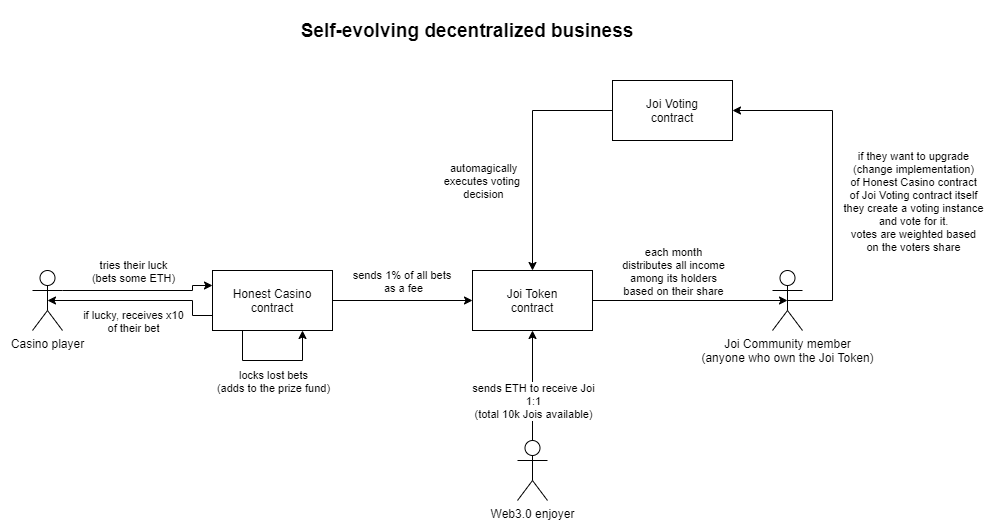
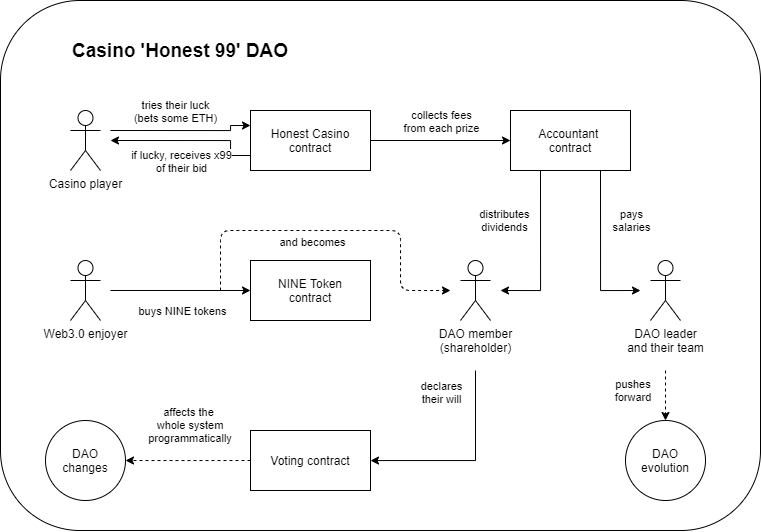
update readme and big picture

diff --git a/README.md b/README.md
@@ -1,6 +1,3 @@
-_This repository should always belong to CEO or CTO of Honest Casino, previous owner should archive their copy immediately after an election_
-
-## Honest Casino
 The online casino owned by its community
 
 ##### The big picture
@@ -8,72 +5,43 @@ The online casino owned by its community
 
 #### Contracts
 
-##### Joi Token
+##### NINE Token
 
-The hearth of the Honest Casino DAO is `JoiToken` contract which is based on a custom version of `ERC777` - 
-`ERC777WithHistory`. This contract provides us with a unique feature - it stores a history of balances of
-its accounts. This enables other contracts to verify the possession of some amount of tokens by any account
-at any specific moment in the past. 
+The hearth of Casino 'Honest 99' DAO is `NineToken` contract which is based on a custom version of `ERC20` - 
+`ERC20WithHistory`. This contract provides us with the unique feature - it is aware of history of balances of
+its accounts. This enables other contracts to verify the possession of tokens by any account
+at any specific moment in the past.
 
-> this is achieved by saving history snapshots using ERC777 `_beforeTokenTransfer` hook
+> this is achieved by saving history snapshots using ERC20 `_beforeTokenTransfer` hook
 
-This feature is fundamental for the entire contract system, because it enables us to implement cheap (in terms
+This feature is fundamental for the entire contract system, because it enables us to securely implement cheap (in terms
 of gas) dividends distribution system and cheap voting system both based on amounts of capital possessed by the 
 account. 
 
-`JoiToken` contract uses balance history feature to implement monthly dividend distribution sessions. Shareholders
-(Joi Community members) are calling its `requestPayout()` method and receive ETH (if there is at least 1 ETH to distribute)
+##### Accountant
+
+`Accountant` contract uses balance history feature to implement dividend distribution sessions. Shareholders
+(DAO members) are calling its `receiveDividends()` method and receive ETH (fees collected from the casino)
 based on their share at the moment of the beginning of the distribution session.
 
 > For example: 
 >
-> You had `100 Jois` at the 1st of January and didn't move your Jois after that, this month `500 ETH fees` 
-> was collected from the casino and monthly dividend distribution session started today - 2nd of January 
-> => your dividends would amount `500 / 10_000 * 100 = 5 ETH`.
+> You had `100 Nines` at the 1st of January. During December `500 ETH fees` were collected from the casino.
+> Your dividends would amount `500 / 10_000 * 100 = 5 ETH`.
 
-You don't need to lock your funds or anything else - the contract knows how much did you have when payout period started.
+You don't need to lock your NINE tokens or commit any explicit proofs - the contract knows for sure how much shares you 
+had for current dividend distribution session.
 
 ##### Honest Casino
 
-This contract is very simple. It only has one method to call - `guess()`. It accepts the bet and calculates a random 
-number to compare with the callers one. %1 fee of every bet sent to the Joi Token contract.
+// TODO: add links to Medium articles
 
-The only interesting thing about this contract is RNG function. [Here are](rng-security.md) some info about its security.
-In short words: it is possible to break it and steal some ETH from the casino, but it is economically ineffective for an attacker.
+##### Voting
 
-##### Joi Voting
-
-This is the voting contract that makes our DAO so effective. It also uses balance history feature from `ERC777WithHistory`
+This contract makes our DAO special. Just like Accountant contract, Voting also uses balance history feature from `ERC20WithHistory`
 the same exact way - when some voting starts, and you vote, it will check your balance at the moment when the voting did start.
 
-There are three types of votings in the current version of this contract:
-1. `OTHER` - 'free subject' voting. When you create it, you should just specify some description. Good for some organizational topics.
-2. `UPGRADE_CASINO` - this voting is used to upgrade `HonestCasino` contract. When you create it, you should also specify
-the address of the new version of this contract. When voting period (30d) end, this address will be automatically assigned
-to the `honestCasino` property of the `JoiToken` contract.
-3. `UPGRADE_VOTING` - this is the same as the previous one, but provides a way to upgrade the `JoiVoting` contract itself.
-
-As you can see, all responsibility for a current implementation of the casino and voting lies on the voting contract itself.
-This means that the DAO itself decides how this Dapp should be implemented.
-
-This contract provides us a way to democratically evolve the whole system when it needs to be evolved. 
-
-### FAQ
-Why so little Jois total supply?
-> Joi token represents shares. It is not intended to use as a currency on a daily basis. 10k (* 10^18 granularity) 
-> is more than enough to reach that goal.
-
-When I call `mint()` method of the `JoiToken` contract, where do my submitted ETH go?
-> All the funds that were spent on minting of Joi tokens lock inside `HonestCasino` contact and become a part of the
-> prize fund. The whole point of this token is to start the engine of the casino and make it go forever. 
-
-Okay, I now have some Joi tokens in my wallet, when I can start receiving dividends?
-> By default `requestPayout()` method of the `JoiToken` is disabled. It automatically enables when two conditions are met:
-> 1. All Jois are minted
-> 2. There is at least 1 ETH fees collected by the casino
-
-I don't like Honest Casino and the DAO anymore, can I get my ETH back?
-> The `mint()` function is one-way, the only thing you can do is to exchange Joi tokens for something else.
+This contract provides us a way to democratically evolve the whole system when it needs changes.
 
 ### Development
 
@@ -82,8 +50,7 @@ I don't like Honest Casino and the DAO anymore, can I get my ETH back?
 This project consists of the next modules:
 1. Solidity contracts inside `contracts` dir
 2. Mocha-ts tests under `test` dir
-3. Honest Casino frontend in `src/casino`
-4. Honest Casino DAO frontend in `src/dao`
+3. Preact frontend in `src`
 
 ### Run tests
 
@@ -96,7 +63,4 @@ This project consists of the next modules:
 
 ### Contributing
 
-If you're interested in making this project (and if you're a part of the DAO, you should be)
-consider opening a pull request with the feature you want to be included.
-
-Also feel free to open an issue.
+Feel free to open an issue.
